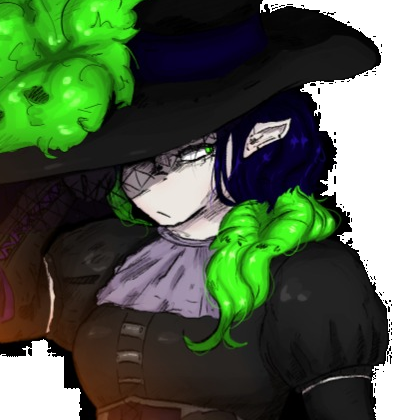
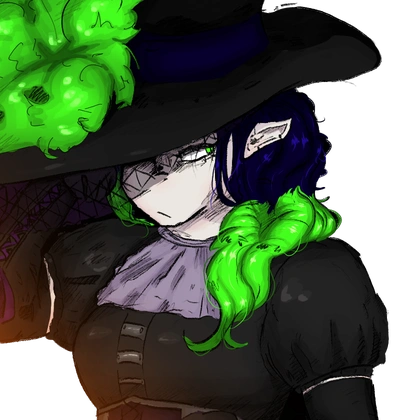
fix(personagens): importar arquivos originais de Downloads, preencher buracos internos e gerar avatares com alta nitidez

diff --git a/js/mesa.js b/js/mesa.js
@@ -839,8 +839,8 @@ const MesaApp = {
       altura: '1,78m',
       raca: 'Vampira',
       arquetipo: 'Nerd',
-      imagem: 'assets/minerva.png?v=2',
-      avatar: 'assets/minerva_avatar.png?v=2',
+      imagem: 'assets/minerva.png?v=3',
+      avatar: 'assets/minerva_avatar.png?v=3',
       hp: 12, hpMax: 12,
       pe: 10, peMax: 10,
       st: 0, stMax: 40,
@@ -1011,8 +1011,8 @@ const MesaApp = {
       altura: '1,42m',
       raca: 'Dragão Anão',
       arquetipo: 'Gótica',
-      imagem: 'assets/odara.png',
-      avatar: 'assets/odara_avatar.png',
+      imagem: 'assets/odara.png?v=3',
+      avatar: 'assets/odara_avatar.png?v=3',
       hp: 14, hpMax: 14,
       pe: 10, peMax: 10,
       st: 0, stMax: 36,
@@ -1161,8 +1161,8 @@ const MesaApp = {
           }
 
           if (p.token === 'N3L8' || p.slot === 2) {
-            p.imagem = 'assets/minerva.png?v=2';
-            p.avatar = 'assets/minerva_avatar.png?v=2';
+            p.imagem = 'assets/minerva.png?v=3';
+            p.avatar = 'assets/minerva_avatar.png?v=3';
           }
 
           if (p.token === 'R5K1' || p.slot === 3) {
@@ -1176,8 +1176,8 @@ const MesaApp = {
           }
 
           if (p.token === 'Y4M7' || p.slot === 7) {
-            p.imagem = 'assets/odara.png';
-            p.avatar = 'assets/odara_avatar.png';
+            p.imagem = 'assets/odara.png?v=3';
+            p.avatar = 'assets/odara_avatar.png?v=3';
           }
 
           if (p.slot >= 1 && p.slot <= 8) {
@@ -1205,7 +1205,7 @@ const MesaApp = {
       if (!this.state.players[1]) {
         this.state.players[1] = {
           id: 3, slot: 2, token: 'N3L8', nome: 'Sanguiminerva "Minerva" Qamari Von Adams', idade: '18 anos', altura: '1,78m', raca: 'Vampira', arquetipo: 'Nerd',
-          imagem: 'assets/minerva.png?v=2', avatar: 'assets/minerva_avatar.png?v=2',
+          imagem: 'assets/minerva.png?v=3', avatar: 'assets/minerva_avatar.png?v=3',
           hp: 12, hpMax: 12, pe: 10, peMax: 10, st: 0, stMax: 40, stressPoints: 0, stressPointsMax: 6,
           atributos: { 'Saúde': 'd8', 'Vigor': 'd12', 'Força': 'd4', 'Mente': 'd16' },
           bonus: [{ origem: 'Raça (Vampira)', desc: '+d4 em testes de Mente e Visão no Escuro (5B)' }, { origem: 'Arquétipo (Nerd)', desc: '+d4 em Testes de Mente' }],
@@ -1290,7 +1290,7 @@ const MesaApp = {
       if (!this.state.players[6]) {
         this.state.players[6] = {
           id: 7, slot: 7, token: 'Y4M7', nome: 'Odara De La Benevidez', idade: '18 anos', altura: '1,42m', raca: 'Dragão Anão', arquetipo: 'Gótica',
-          imagem: 'assets/odara.png', avatar: 'assets/odara_avatar.png',
+          imagem: 'assets/odara.png?v=3', avatar: 'assets/odara_avatar.png?v=3',
           hp: 14, hpMax: 14, pe: 10, peMax: 10, st: 0, stMax: 36, stressPoints: 0, stressPointsMax: 6,
           atributos: { 'Força': 'd16', 'Mente': 'd12', 'Saúde': 'd8', 'Vigor': 'd4' },
           bonus: [

diff --git a/mesa.html b/mesa.html
@@ -8,9 +8,9 @@
   <meta http-equiv="Expires" content="0">
   <title>Mesa Virtual - Wuitalur RPG</title>
   <link rel="icon" href="assets/favicon.svg" type="image/svg+xml">
-  <link rel="stylesheet" href="css/variables.css?v=3.0.2">
-  <link rel="stylesheet" href="css/components.css?v=3.0.2">
-  <link rel="stylesheet" href="css/mesa.css?v=3.0.2">
+  <link rel="stylesheet" href="css/variables.css?v=3.0.3">
+  <link rel="stylesheet" href="css/components.css?v=3.0.3">
+  <link rel="stylesheet" href="css/mesa.css?v=3.0.3">
   <script src="https://cdn.jsdelivr.net/npm/@supabase/supabase-js@2"></script>
 </head>
 <body class="mesa-body">
@@ -468,6 +468,6 @@
       </div>
     </div>
 
-<script src="js/mesa.js?v=3.0.2"></script>
+<script src="js/mesa.js?v=3.0.3"></script>
 </body>
 </html>

diff --git a/js/wuitter.js b/js/wuitter.js
@@ -84,7 +84,7 @@ const DEFAULT_ACCOUNTS = [
     handle: '@minerva',
     bio: 'Médica de campo e estudiosa de patologias arcanas. Café sem açúcar e prontuários em dia.',
     avatarLetter: 'M',
-    avatarImage: 'assets/minerva_wuitter.png?v=2',
+    avatarImage: 'assets/minerva_wuitter.png?v=3',
     avatarColor: '#8b5cf6',
     badge: 'none',
     isMaster: false
@@ -174,7 +174,7 @@ const DEFAULT_ACCOUNTS = [
     handle: '@odara',
     bio: 'Guardiã de relíquias antigas e intérprete de línguas esquecidas do arquipélago.',
     avatarLetter: 'O',
-    avatarImage: 'assets/odara_wuitter.png',
+    avatarImage: 'assets/odara_wuitter.png?v=3',
     avatarColor: '#ec4899',
     badge: 'none',
     isMaster: false

diff --git a/wuitter.html b/wuitter.html
@@ -456,6 +456,6 @@
   <img class="w-lightbox-img" id="w-lightbox-img" src="" alt="Zoom da Foto">
 </div>
 
-<script src="js/wuitter.js?v=5.5"></script>
+<script src="js/wuitter.js?v=5.6"></script>
 </body>
 </html>
